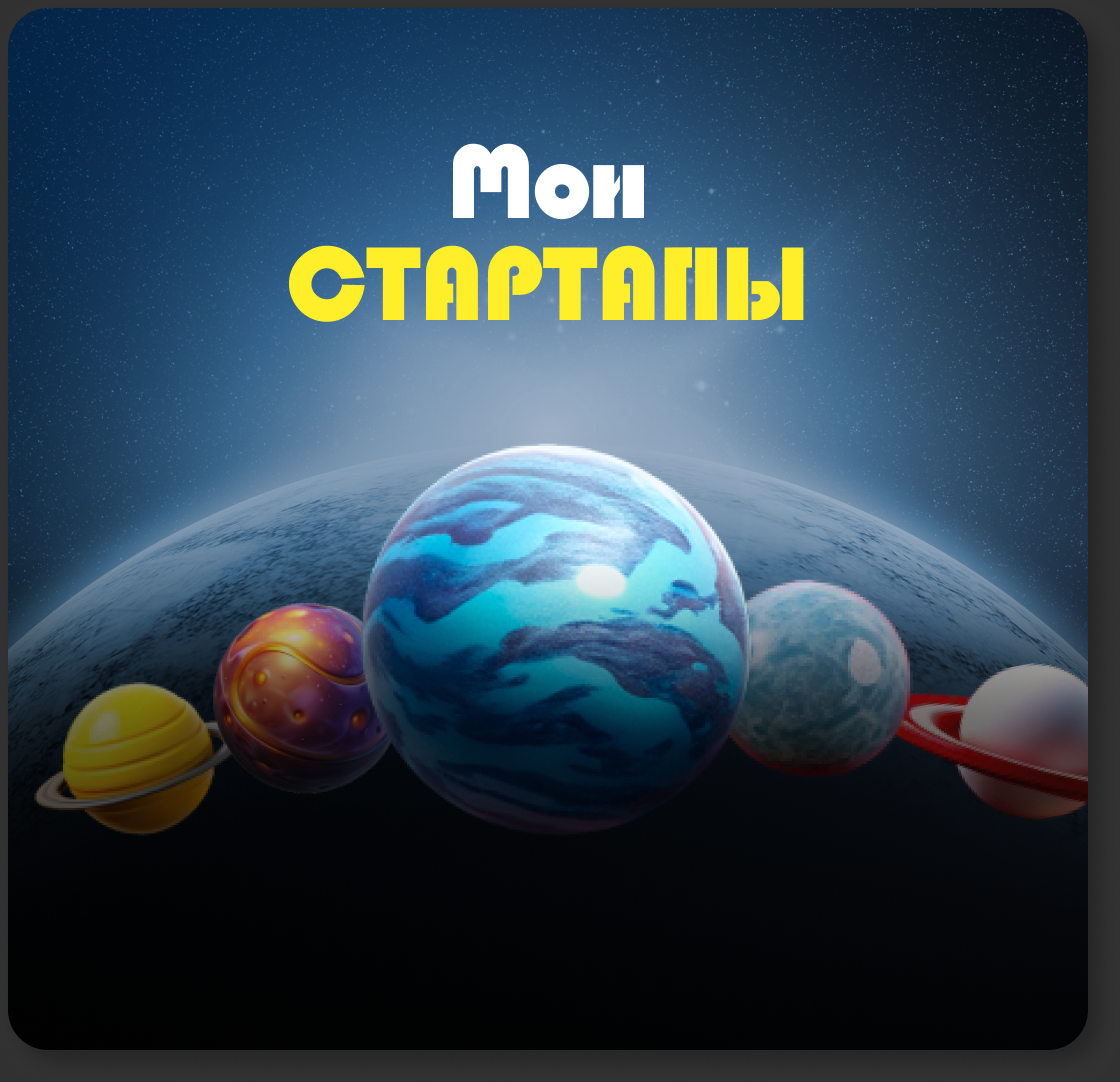
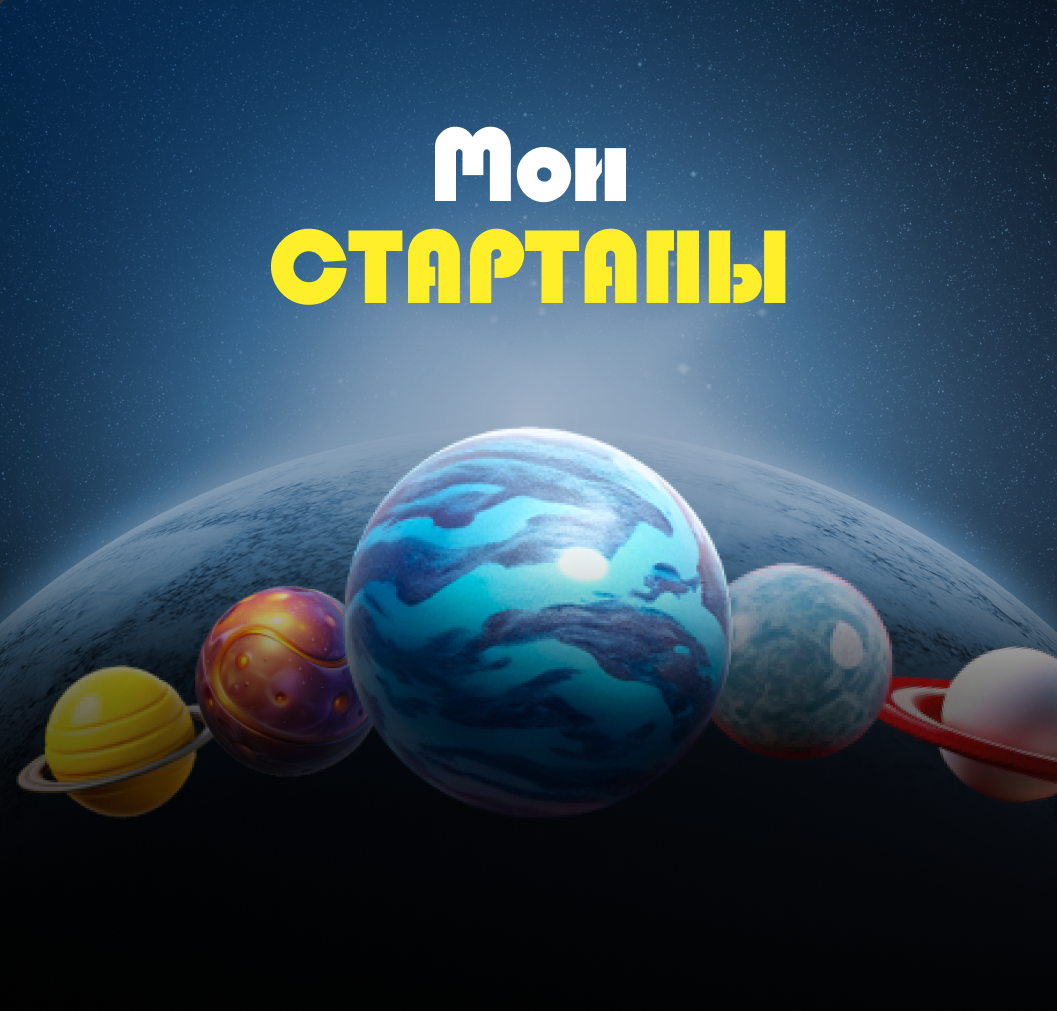
фиксы уведомления

Changed region(s): [[0.0, 0.0, 1.0, 1.0], [0.2498, 0.1227, 0.7493, 0.3066]]

diff --git a/static/accounts/css/notifications.css b/static/accounts/css/notifications.css
@@ -29,20 +29,16 @@ body {
 
 .notifications-promo-card {
     width: 540px;
-    height: 521px; /* Высота как у промо-карты, и теперь как у списка уведомлений */
+    height: 521px;
     position: relative;
-    background-color: black; /* Фоновый цвет, если изображение не загрузится */
-    background-image: url('../images/mainimg_notification.png'); /* ИЗМЕНЕНО */
+    background-color: black;
+    background-image: url('../images/mainimg_notification.png');
     background-size: cover;
     background-position: center;
     box-shadow: 6px 6px 10px rgba(0, 0, 0, 0.25);
     overflow: hidden;
     border-radius: 20px;
-    display: flex; /* Для позиционирования кнопки */
-    flex-direction: column;
-    justify-content: center; /* Центрирование текстового контента */
-    align-items: center;
-    flex-shrink: 0; /* Чтобы карточка не сжималась */
+    flex-shrink: 0;
 }
 
 .promo-card-background-elements {
